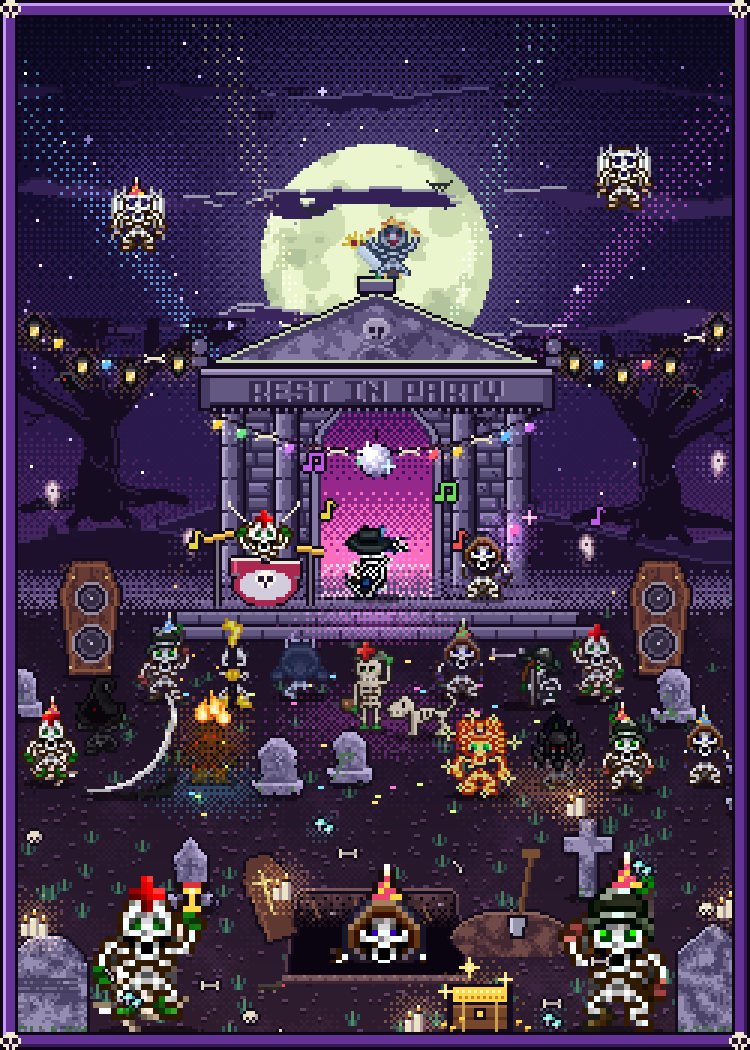
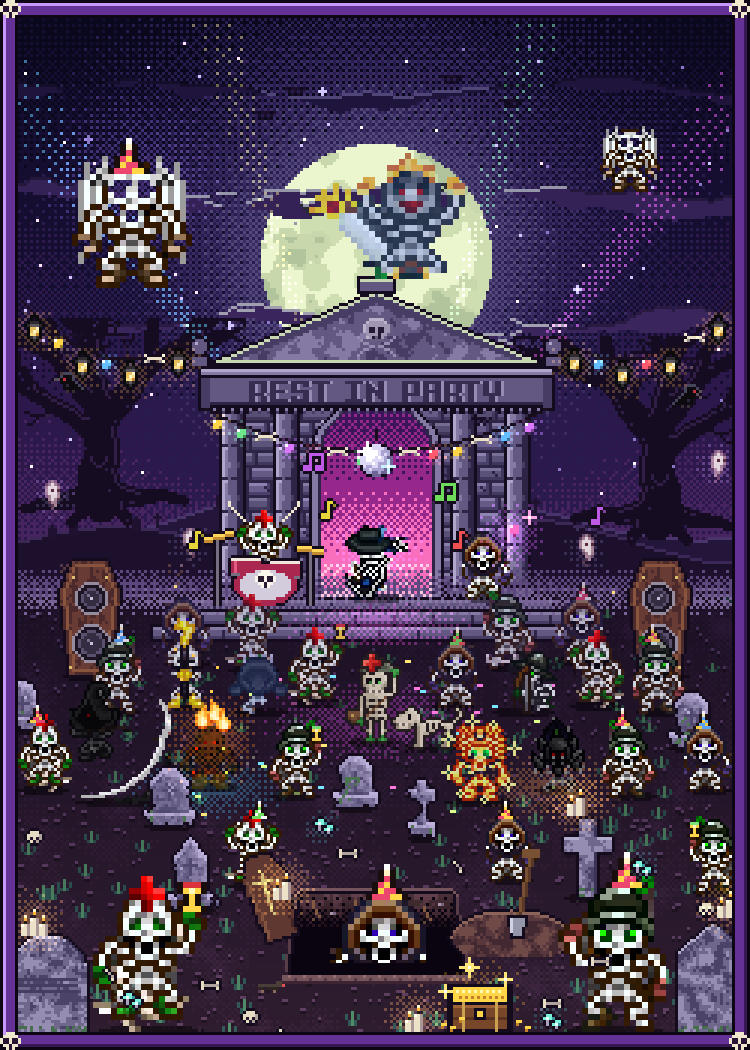
Sleeve-Entwürfe: Zwischenstand Skelett-Party (Karten-Sprites)
Claude-Session: https://claude.ai/code/session_01QU6zaF1CRhUbwqrjdbxehJ

diff --git a/scripts/sleeve-entwuerfe/s10_party.py b/scripts/sleeve-entwuerfe/s10_party.py
@@ -556,10 +556,10 @@ im.save(os.path.join(TMP, 'p10_d.png'))
 # Figuren aus den Karten (native Auflösung)
 HE, AR, MA = SK.minions()
 WING = SK.winged()
-w1 = SK.party_hat(WING, (236, 70, 110), (255, 214, 72), dy=3)
-im = add_light(im, 46, 62, 22, (26, 20, 40), 0.8)
-put(im, w1, 46, 84)
-put(im, WING.transpose(Image.FLIP_LEFT_RIGHT), 208, 70)
+w1 = up(SK.trim(SK.party_hat(WING, (236, 70, 110), (255, 214, 72), dy=3)), 2)
+im = add_light(im, 44, 58, 30, (26, 20, 40), 0.8)
+put(im, w1, 44, 96)
+put(im, WING.transpose(Image.FLIP_LEFT_RIGHT), 210, 64)
 d = ImageDraw.Draw(im)
 # Fledermäuse
 def bat(x, y, c=(26, 14, 40)):
@@ -618,8 +618,8 @@ for (x, y, col, kind) in [(106, 166, (230, 214, 60), 0), (144, 160, (110, 220, 9
     nimg = rows_img(rows, {'A': col, 'B': tuple(int(v * 0.7) for v in col)})
     im.alpha_composite(nimg, (x, y))
 # König Skullmael (Karte) auf der Giebelspitze
-KING = SK.king()
-put(im, KING, CX + 2, PY - 3)
+KING = up(SK.king(), 2)
+put(im, KING, CX + 4, PY - 3)
 im.save(os.path.join(TMP, 'p10_e.png'))
 print('stage ok')
 
@@ -691,38 +691,51 @@ PINK, GOLDC, BLUE, WHITE, GREEN, RED = (236, 70, 110), (255, 214, 72), (90, 170,
 ARup = arm_up(AR, (17, 23, 21, 32))
 HEup = arm_up(HE, (17, 21, 22, 30))
 d1 = 0.22  # Tiefen-Tönung Reihe 1
+HEboth = SK.trim(SK.raise_arm(SK.raise_arm(SK.canvas(HE, 10, 3)[0], (17, 21, 22, 30)), (3, 21, 8, 30)))
+ARcup = SK.trim(SK.cup(SK.raise_arm(SK.canvas(AR, 10, 3)[0], (17, 23, 21, 32)), 19, 16, (120, 230, 120)))
+HEcup = SK.trim(SK.cup(SK.canvas(HEup, 4, 2)[0], 19, 7))
+row0 = [(62, 222, MA.transpose(Image.FLIP_LEFT_RIGHT)), (84, 224, HEboth), (170, 223, ARup.transpose(Image.FLIP_LEFT_RIGHT)), (192, 221, hat(MA, PINK, WHITE))]
+for (x, y, spr) in row0:
+    add(SK.tint_depth(spr, 0.34), x, y)
 row1 = [
-    (54, 234, hat(ARup, BLUE, WHITE)),
-    (78, 236, SK.priest()),
-    (100, 233, SK.necromancer()),
-    (152, 233, hat(MA, GREEN, RED)),
-    (176, 236, SK.archer_card().transpose(Image.FLIP_LEFT_RIGHT)),
-    (198, 234, HEup.transpose(Image.FLIP_LEFT_RIGHT)),
+    (38, 238, hat(ARup, BLUE, WHITE)),
+    (62, 236, SK.priest()),
+    (86, 238, SK.necromancer()),
+    (106, 235, HEcup),
+    (150, 236, hat(MA, GREEN, RED)),
+    (174, 238, SK.archer_card().transpose(Image.FLIP_LEFT_RIGHT)),
+    (198, 236, HEup.transpose(Image.FLIP_LEFT_RIGHT)),
+    (220, 238, hat(AR, GOLDC, PINK).transpose(Image.FLIP_LEFT_RIGHT)),
 ]
 for (x, y, spr) in row1:
-    add(SK.tint_depth(spr, d1), x, y)
+    add(SK.tint_depth(spr, 0.2), x, y)
 # Heiler-Sprite aus der Knochenmühle (1x) + Skeletthund
 hs = area('bonegrinder/healer')
 healer_fr = [hs.crop((i * 21, 0, i * 21 + 21, 32)) for i in range(3)]
 healer_fr = [f.crop(f.getbbox()) for f in healer_fr]
-add(SK.tint_depth(healer_fr[2], 0.12), 122, 244)
+add(SK.tint_depth(healer_fr[2], 0.12), 124, 248)
 dog = area('bonegrinder/dog').crop((0, 0, 25, 17)); dog = dog.crop(dog.getbbox())
-add(SK.tint_depth(dog, 0.12), 140, 246)
+add(SK.tint_depth(dog, 0.12), 142, 250)
 # Reihe 2
 BURN = SK.burning()
 row2 = [
-    (16, 262, hat(HE, PINK, GOLDC).transpose(Image.FLIP_LEFT_RIGHT)),
-    (42, 266, SK.reaper()),
-    (70, 261, BURN),
-    (160, 266, SK.treasure()),
-    (186, 262, SK.death_knight()),
-    (210, 264, hat(AR.transpose(Image.FLIP_LEFT_RIGHT), PINK, GOLDC)),
-    (236, 262, hat(MA, BLUE, GOLDC).transpose(Image.FLIP_LEFT_RIGHT)),
+    (14, 264, hat(HE, PINK, GOLDC, dx=3, dy=3).transpose(Image.FLIP_LEFT_RIGHT)),
+    (40, 268, SK.reaper()),
+    (70, 263, BURN),
+    (98, 266, ARcup),
+    (160, 268, SK.treasure()),
+    (186, 264, SK.death_knight()),
+    (210, 266, hat(AR.transpose(Image.FLIP_LEFT_RIGHT), PINK, GOLDC)),
+    (236, 264, hat(MA, BLUE, GOLDC).transpose(Image.FLIP_LEFT_RIGHT)),
 ]
 for (x, y, spr) in row2:
-    add(SK.tint_depth(spr, 0.08), x, y)
+    add(SK.tint_depth(spr, 0.06), x, y)
+# Reihe 3 (vorne, zwischen den Stars)
+row3 = [(84, 296, hat(HEboth, GREEN, WHITE, dx=3, dy=3)), (170, 294, hat(MA, GOLDC, PINK).transpose(Image.FLIP_LEFT_RIGHT)), (238, 298, ARcup.transpose(Image.FLIP_LEFT_RIGHT))]
+for (x, y, spr) in row3:
+    add(spr, x, y)
 # Grabsteine zwischen den Tänzern
-for (x, y, k) in [(8, 240, 0), (116, 262, 2), (224, 242, 3), (92, 266, 5), (246, 272, 1)]:
+for (x, y, k) in [(8, 244, 0), (118, 270, 2), (230, 250, 3), (56, 276, 5), (140, 280, 1)]:
     add(STONES[k], x, y)
 
 crowd.sort(key=lambda t: t[0])
@@ -731,7 +744,7 @@ for (y, x, spr) in crowd:
 # Flammen-Sprite (Knochenmühle) auf dem brennenden Skelett + Funken
 fl = area('bonegrinder/flame')
 flames = [fl.crop((i * 5, 0, i * 5 + 5, 8)) for i in range(4)]
-bx_, by_ = 70, 261 - BURN.height
+bx_, by_ = 70, 263 - BURN.height
 im = add_light(im, 70, 246, 18, (70, 36, 0), 1.0)
 im.alpha_composite(up(flames[1], 1), (bx_ - 5, by_ - 5))
 im.alpha_composite(flames[2], (bx_ - 1, by_ - 7))

diff --git a/scripts/sleeve-entwuerfe/skel_sprites.py b/scripts/sleeve-entwuerfe/skel_sprites.py
@@ -30,7 +30,13 @@ def bard():
 
 def king():
     nk = native('Skeleton King Skullmael')
-    return _fcut(nk, (18, 2, 64, 25), _grey(64, 135, 70))
+    k = _fcut(nk, (18, 2, 64, 25), _grey(64, 135, 70))
+    a = np.array(k).astype(int)
+    green = (a[..., 1] > a[..., 0] + 30)
+    green[:-5] = False  # nur das Blatt des Minion-Huts unten entfernen
+    a[green, 3] = 0
+    k = Image.fromarray(a.astype(np.uint8))
+    return k.crop(k.getbbox())
 
 
 def notes():
